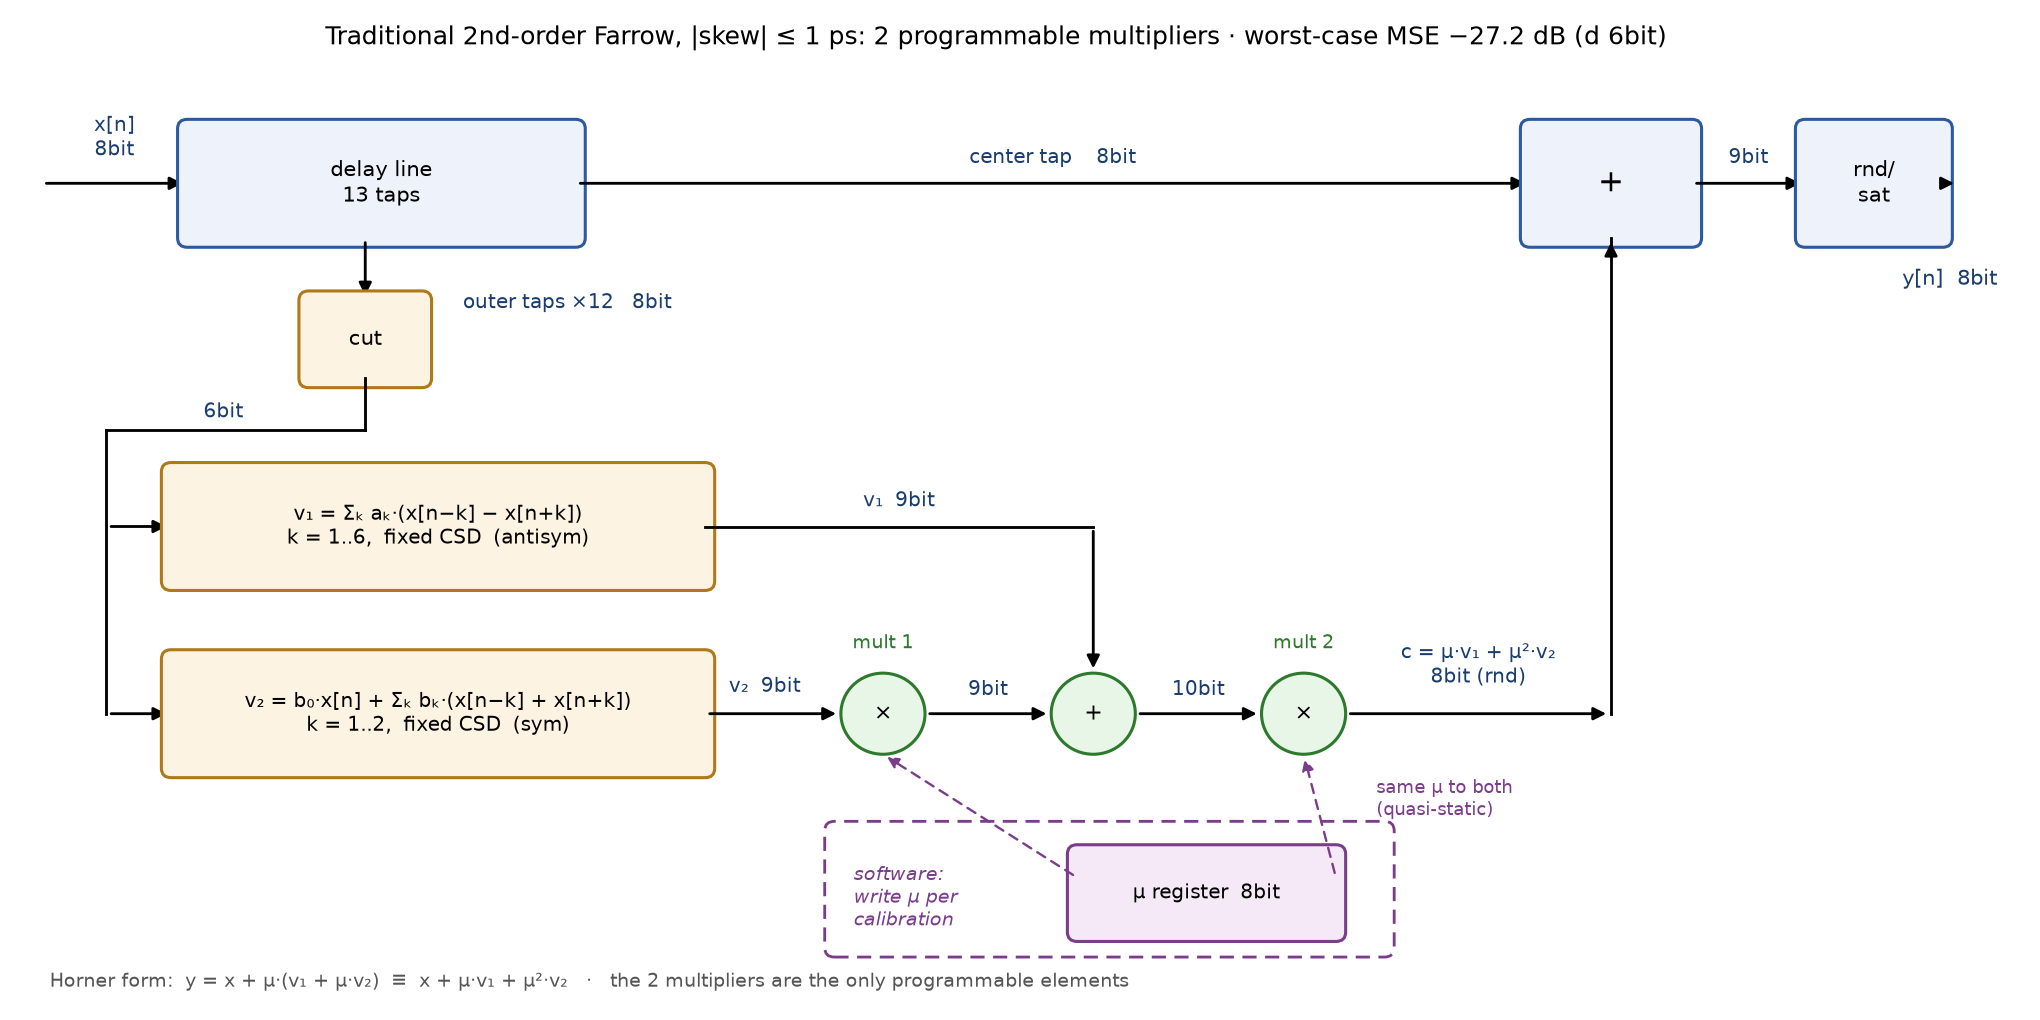
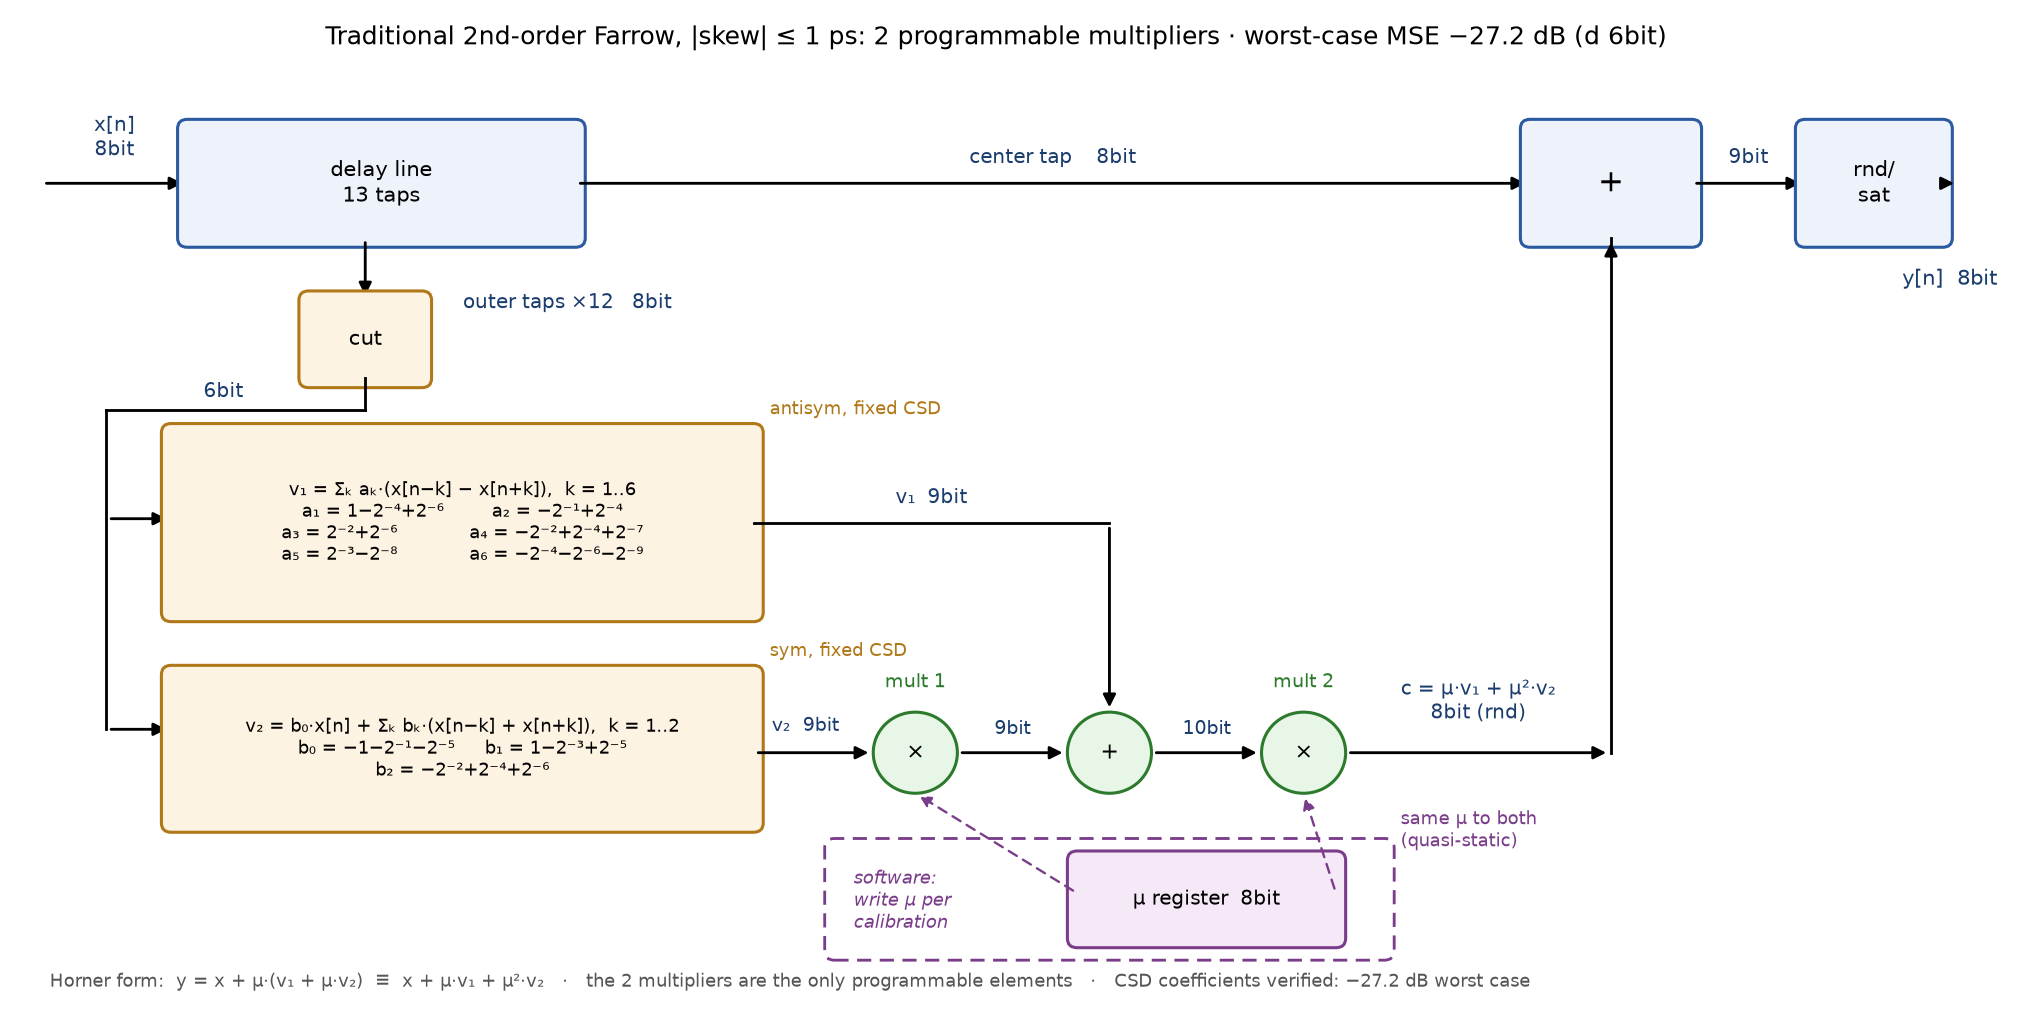
Farrow diagram: expand v1/v2 CSD coefficients in the subfilter boxes
Each coefficient quantized to <=3 signed-power-of-two terms and
verified in-loop: worst-case MSE unchanged at -27.2 dB.

Claude-Session: https://claude.ai/code/session_01UbEyxzdQC9DticNgWAgSg7

diff --git a/skew-precomp/make_blockdiagram_farrow.py b/skew-precomp/make_blockdiagram_farrow.py
@@ -1,6 +1,7 @@
 #!/usr/bin/env python3
 """Traditional 2nd-order Farrow (2 programmable multipliers, Horner form)
-for |skew| <= 1 ps — comparison diagram to the multiplierless version."""
+for |skew| <= 1 ps, with the v1/v2 CSD coefficients expanded.
+Coefficient values verified in-loop: worst-case MSE -27.2 dB (d 6bit)."""
 
 import matplotlib
 matplotlib.use("Agg")
@@ -50,59 +51,66 @@ ax.text(11.6, 4.55, "y[n]  8bit", fontsize=9, color="#1a3d6e")
 # ---------------- cut + feed bus ----------------
 arrow((2.1, 4.85), (2.1, 4.45), "outer taps ×12   8bit", loff=(1.25, -0.25))
 box(1.75, 3.95, 0.7, 0.5, "cut", **ORANGE)
-ax.plot([2.1, 2.1], [3.95, 3.62], color="k", lw=1.2)
-ax.plot([0.5, 2.1], [3.62, 3.62], color="k", lw=1.2)
-ax.plot([0.5, 0.5], [3.62, 1.8], color="k", lw=1.2)
-ax.text(1.1, 3.7, "6bit", fontsize=8.6, color="#1a3d6e")
-arrow((0.5, 3.0), (0.9, 3.0))
-arrow((0.5, 1.8), (0.9, 1.8))
+ax.plot([2.1, 2.1], [3.95, 3.75], color="k", lw=1.2)
+ax.plot([0.5, 2.1], [3.75, 3.75], color="k", lw=1.2)
+ax.plot([0.5, 0.5], [3.75, 1.7], color="k", lw=1.2)
+ax.text(1.1, 3.83, "6bit", fontsize=8.6, color="#1a3d6e")
+arrow((0.5, 3.05), (0.9, 3.05))
+arrow((0.5, 1.7), (0.9, 1.7))
 
-# ---------------- fixed subfilters ----------------
-box(0.9, 2.65, 3.3, 0.7,
-    "v₁ = Σₖ aₖ·(x[n−k] − x[n+k])\nk = 1..6,  fixed CSD  (antisym)",
-    fs=8.4, **ORANGE)
-box(0.9, 1.45, 3.3, 0.7,
-    "v₂ = b₀·x[n] + Σₖ bₖ·(x[n−k] + x[n+k])\nk = 1..2,  fixed CSD  (sym)",
-    fs=8.4, **ORANGE)
+# ---------------- fixed subfilters with expanded CSD coefficients ------
+box(0.9, 2.45, 3.6, 1.15,
+    "v₁ = Σₖ aₖ·(x[n−k] − x[n+k]),  k = 1..6\n"
+    "a₁ = 1−2⁻⁴+2⁻⁶        a₂ = −2⁻¹+2⁻⁴\n"
+    "a₃ = 2⁻²+2⁻⁶            a₄ = −2⁻²+2⁻⁴+2⁻⁷\n"
+    "a₅ = 2⁻³−2⁻⁸            a₆ = −2⁻⁴−2⁻⁶−2⁻⁹",
+    fs=7.6, **ORANGE)
+ax.text(4.6, 3.72, "antisym, fixed CSD", fontsize=7.6, color="#b07818")
+box(0.9, 1.1, 3.6, 0.95,
+    "v₂ = b₀·x[n] + Σₖ bₖ·(x[n−k] + x[n+k]),  k = 1..2\n"
+    "b₀ = −1−2⁻¹−2⁻⁵     b₁ = 1−2⁻³+2⁻⁵\n"
+    "b₂ = −2⁻²+2⁻⁴+2⁻⁶",
+    fs=7.6, **ORANGE)
+ax.text(4.6, 2.17, "sym, fixed CSD", fontsize=7.6, color="#b07818")
 
 # ---------------- Horner chain: y = x + mu*(v1 + mu*v2) ----------------
-circ(5.3, 1.8, "×", GREEN)
-ax.text(5.3, 2.22, "mult 1", fontsize=8.2, color="#2c7a2c", ha="center")
-arrow((4.2, 1.8), (5.04, 1.8), "v₂  9bit", loff=(-0.05, 0.14))
-circ(6.6, 1.8, "+", GREEN)
-arrow((5.56, 1.8), (6.34, 1.8), "9bit", loff=(0, 0.12))
-# v1 routes over to the adder
-ax.plot([4.2, 6.6], [3.0, 3.0], color="k", lw=1.2)
-ax.text(5.4, 3.13, "v₁  9bit", fontsize=8.6, ha="center", color="#1a3d6e")
-arrow((6.6, 3.0), (6.6, 2.06))
-circ(7.9, 1.8, "×", GREEN)
-ax.text(7.9, 2.22, "mult 2", fontsize=8.2, color="#2c7a2c", ha="center")
-arrow((6.86, 1.8), (7.64, 1.8), "10bit", loff=(0, 0.12))
-arrow((8.16, 1.8), (9.8, 1.8), "c = μ·v₁ + μ²·v₂\n8bit (rnd)",
-      loff=(0, 0.2))
-ax.plot([9.8, 9.8], [1.8, 4.85], color="k", lw=1.2)
+circ(5.5, 1.55, "×", GREEN)
+ax.text(5.5, 1.97, "mult 1", fontsize=8.2, color="#2c7a2c", ha="center")
+arrow((4.5, 1.55), (5.24, 1.55), "v₂  9bit", loff=(-0.05, 0.14), fs=8)
+circ(6.7, 1.55, "+", GREEN)
+arrow((5.76, 1.55), (6.44, 1.55), "9bit", loff=(0, 0.12), fs=8)
+ax.plot([4.5, 6.7], [3.02, 3.02], color="k", lw=1.2)
+ax.text(5.6, 3.15, "v₁  9bit", fontsize=8.6, ha="center", color="#1a3d6e")
+arrow((6.7, 3.02), (6.7, 1.81))
+circ(7.9, 1.55, "×", GREEN)
+ax.text(7.9, 1.97, "mult 2", fontsize=8.2, color="#2c7a2c", ha="center")
+arrow((6.96, 1.55), (7.64, 1.55), "10bit", loff=(0, 0.12), fs=8)
+arrow((8.16, 1.55), (9.8, 1.55), "c = μ·v₁ + μ²·v₂\n8bit (rnd)",
+      loff=(0, 0.22), fs=8.4)
+ax.plot([9.8, 9.8], [1.55, 4.85], color="k", lw=1.2)
 arrow((9.8, 4.7), (9.8, 4.85))
 
 # ---------------- mu register (software-written) ----------------
-ax.add_patch(FancyBboxPatch((5.0, 0.3), 3.4, 0.75,
+ax.add_patch(FancyBboxPatch((5.0, 0.28), 3.4, 0.66,
                             boxstyle="round,pad=0.06", fc="none",
                             ec="#7a3d8a", lw=1.2, linestyle=(0, (5, 3))))
-ax.text(5.12, 0.62, "software:\nwrite μ per\ncalibration", fontsize=8,
+ax.text(5.12, 0.6, "software:\nwrite μ per\ncalibration", fontsize=7.8,
         color="#7a3d8a", style="italic", va="center")
-box(6.5, 0.4, 1.6, 0.5, "μ register  8bit", fs=8.6, **PURPLE)
-ax.add_patch(FancyArrowPatch((6.5, 0.75), (5.3, 1.54), arrowstyle="-|>",
+box(6.5, 0.36, 1.6, 0.5, "μ register  8bit", fs=8.6, **PURPLE)
+ax.add_patch(FancyArrowPatch((6.5, 0.65), (5.5, 1.29), arrowstyle="-|>",
                              mutation_scale=10, lw=1.0, color="#7a3d8a",
                              linestyle=(0, (4, 3))))
-ax.add_patch(FancyArrowPatch((8.1, 0.75), (7.9, 1.54), arrowstyle="-|>",
+ax.add_patch(FancyArrowPatch((8.1, 0.65), (7.9, 1.29), arrowstyle="-|>",
                              mutation_scale=10, lw=1.0, color="#7a3d8a",
                              linestyle=(0, (4, 3))))
-ax.text(8.35, 1.15, "same μ to both\n(quasi-static)", fontsize=7.8,
+ax.text(8.5, 0.95, "same μ to both\n(quasi-static)", fontsize=7.8,
         color="#7a3d8a")
 
 ax.text(0.15, 0.05,
         "Horner form:  y = x + μ·(v₁ + μ·v₂)  ≡  x + μ·v₁ + μ²·v₂"
-        "   ·   the 2 multipliers are the only programmable elements",
-        fontsize=8, color="#555")
+        "   ·   the 2 multipliers are the only programmable elements"
+        "   ·   CSD coefficients verified: −27.2 dB worst case",
+        fontsize=7.8, color="#555")
 ax.set_title("Traditional 2nd-order Farrow, |skew| ≤ 1 ps: "
              "2 programmable multipliers · worst-case MSE −27.2 dB "
              "(d 6bit)", fontsize=10.5)
